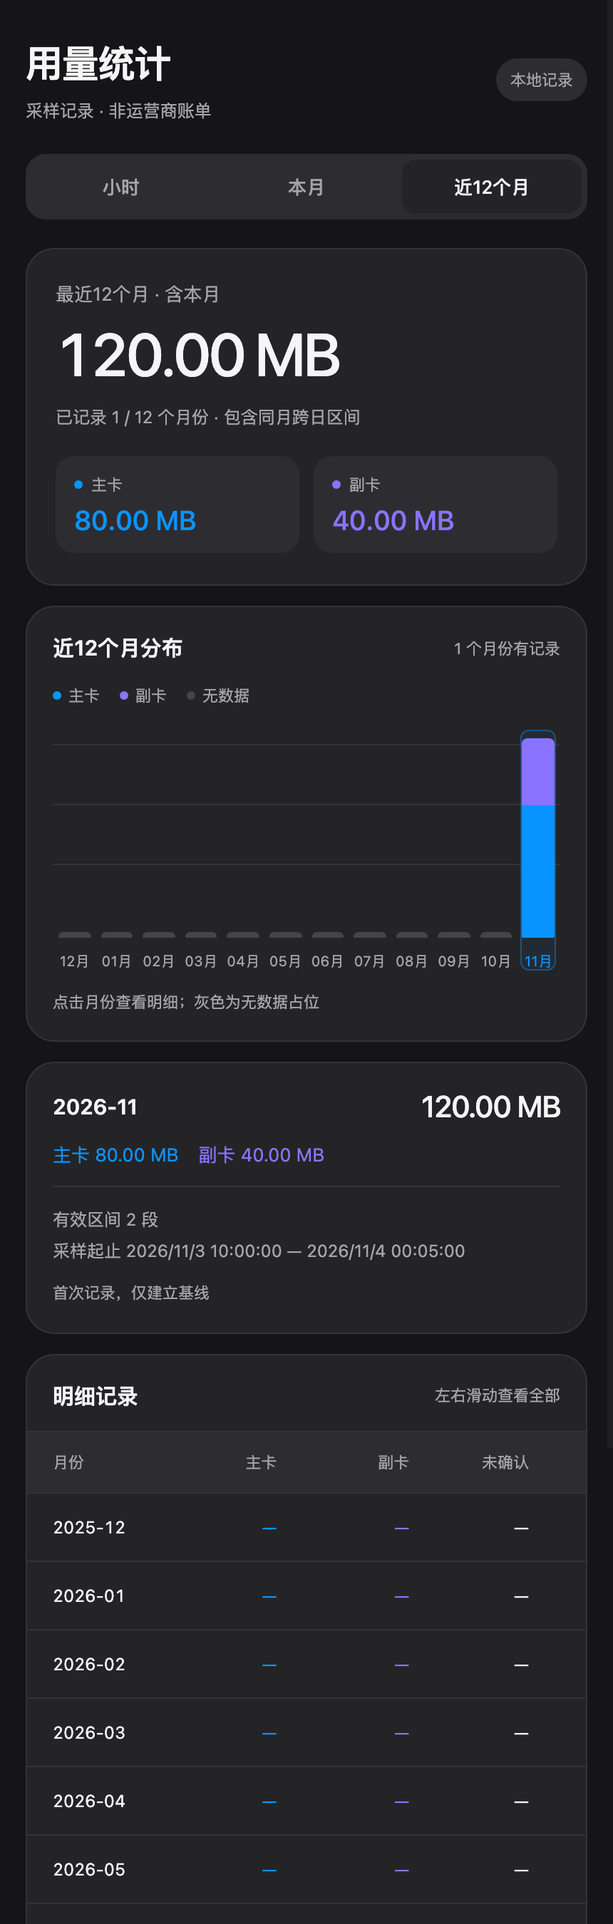
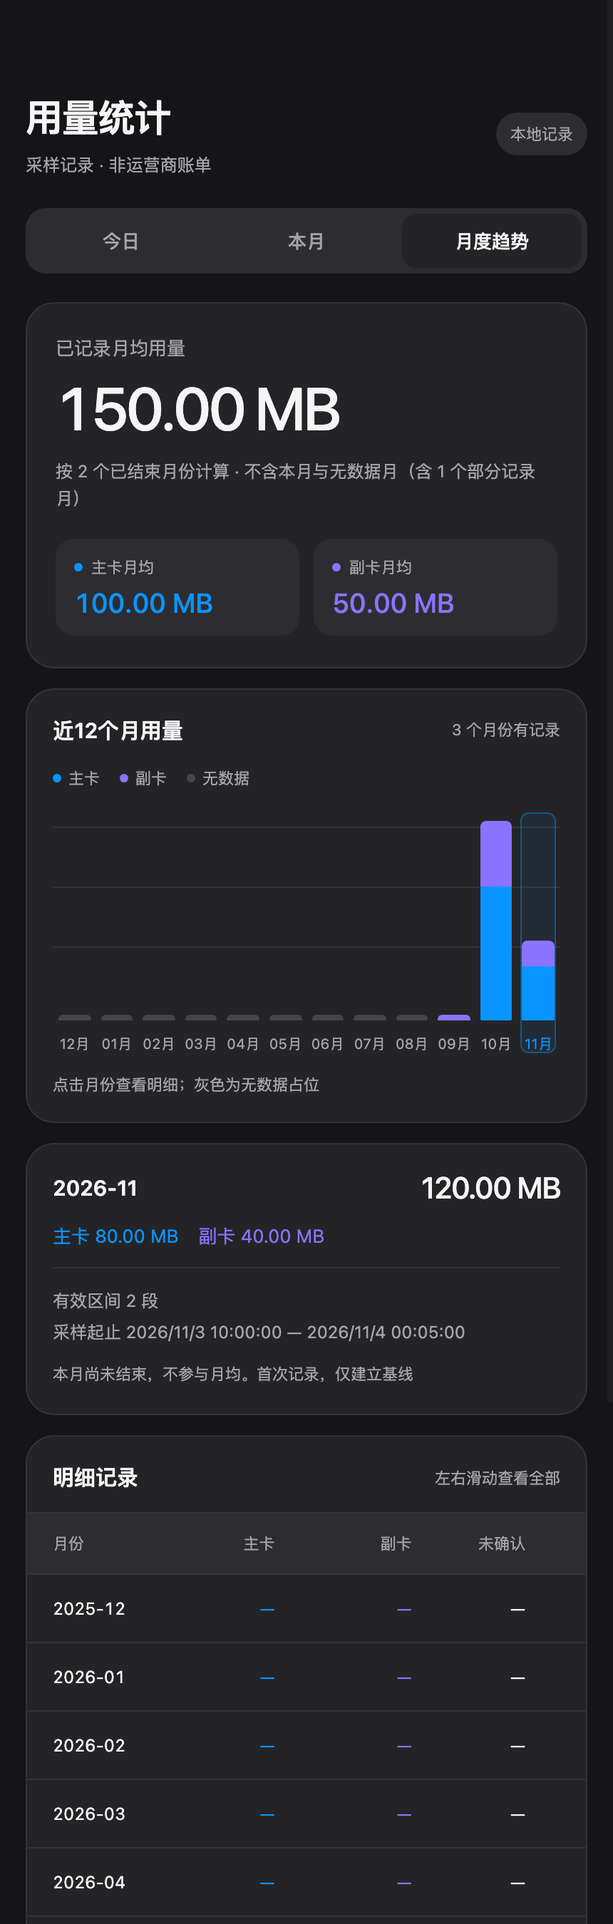
Use recorded monthly averages and fix statistics page zoom and toolbar spacing

diff --git a/scriptable/UnicomFlow.js b/scriptable/UnicomFlow.js
@@ -463,6 +463,15 @@ function updateMonths(previous, sample, prev, interval, note) {
   return months;
 }
 
+function usageSummary(records) {
+  if (!records.length) return { mb: null, mainMB: null, viceMB: null, unknownMB: null };
+  return records.reduce((sum, record) => {
+    sum.mb += record.mb;
+    for (const [key, value] of Object.entries(eventParts(record))) sum[key] += value;
+    return sum;
+  }, { mb: 0, mainMB: 0, viceMB: 0, unknownMB: 0 });
+}
+
 function monthlyReport(history, at = Date.now()) {
   const date = new Date(at), month = dayKey(at).slice(0, 7), today = dayKey(at);
   const savedMonths = history.months || {};
@@ -474,8 +483,11 @@ function monthlyReport(history, at = Date.now()) {
       mainMB: d && d.intervals ? d.mainMB : null, viceMB: d && d.intervals ? d.viceMB : null, unknownMB: d && d.intervals ? d.unknownMB : null,
       intervals: d ? d.intervals : 0, first: d ? d.first : null, last: d ? d.last : null, notes: d ? d.notes : [] };
   });
-  const crossDay = (saved.crossDay || []).filter(e => Number.isFinite(e.mb) && e.mb >= 0);
-  return { month, today, days, totalMB: days.some(d => d.mb != null) ? days.reduce((sum, d) => sum + (d.mb || 0), 0) : null,
+  const crossDay = (saved.crossDay || []).filter(e => Number.isFinite(e.mb) && e.mb >= 0
+    && dayKey(e.from).slice(0, 7) === month && dayKey(e.at).slice(0, 7) === month);
+  const summary = usageSummary([...days.filter(d => d.mb != null), ...crossDay]);
+  return { month, today, days, totalMB: summary.mb, summary,
+    dayTotalMB: days.some(d => d.mb != null) ? days.reduce((sum, d) => sum + (d.mb || 0), 0) : null,
     crossDay, unallocatedMB: crossDay.reduce((sum, e) => sum + e.mb, 0), lastSuccess: history.data.at };
 }
 
@@ -488,21 +500,26 @@ function yearlyReport(history, at = Date.now()) {
     // 同月跨日区间无法拆到某一天，但可以准确归入该月，只计一次。
     const cross = (saved && saved.crossDay || []).filter(e => dayKey(e.from).slice(0, 7) === key && dayKey(e.at).slice(0, 7) === key);
     const records = [...daily.filter(d => d.intervals > 0), ...cross];
-    const parts = records.reduce((total, e) => {
-      total.mb += e.mb;
-      for (const [name, value] of Object.entries(eventParts(e))) total[name] += value;
-      return total;
-    }, { mb: 0, mainMB: 0, viceMB: 0, unknownMB: 0 });
+    const parts = usageSummary(records);
     const first = daily.map(d => d.first).filter(Number.isFinite), last = daily.map(d => d.last).filter(Number.isFinite);
-    return { key, day: key.slice(5) + '月', future: false,
+    const notes = [...new Set(daily.flatMap(d => d.notes).filter(note => note !== '跨日区间未分配'))];
+    const end = dayKey(new Date(now.getFullYear(), now.getMonth() - 10 + index, 0).getTime());
+    const partial = records.length > 0 && (!first.length || !last.length || notes.length > 0
+      || dayKey(Math.min(...first)) !== key + '-01' || dayKey(Math.max(...last)) !== end);
+    return { key, day: key.slice(5) + '月', future: false, partial,
       mb: records.length ? parts.mb : null, mainMB: records.length ? parts.mainMB : null,
       viceMB: records.length ? parts.viceMB : null, unknownMB: records.length ? parts.unknownMB : null,
       intervals: daily.reduce((sum, d) => sum + d.intervals, 0) + cross.length,
       first: first.length ? Math.min(...first) : null, last: last.length ? Math.max(...last) : null,
-      notes: [...new Set(daily.flatMap(d => d.notes).filter(note => note !== '跨日区间未分配'))] };
+      notes };
   });
-  return { period: 'months', month: current, today: current, days,
-    totalMB: days.some(d => d.mb != null) ? days.reduce((sum, d) => sum + (d.mb || 0), 0) : null,
+  // 月均仅对已结束且有记录的月份计算；当前月与无数据月份不补零。
+  const ended = days.filter(d => d.key < current && d.mb != null);
+  const average = usageSummary(ended);
+  if (ended.length) for (const key of ['mb', 'mainMB', 'viceMB', 'unknownMB']) average[key] /= ended.length;
+  average.monthCount = ended.length;
+  average.partialMonthCount = ended.filter(d => d.partial).length;
+  return { period: 'months', month: current, today: current, days, average,
     crossDay: [], unallocatedMB: 0, lastSuccess: history.data.at };
 }
 
@@ -534,10 +551,10 @@ function statisticsHTML(reports, stale = false, initialPeriod = 'month') {
   const light = parseInt(UF.bg.slice(0, 2), 16) * 0.299 + parseInt(UF.bg.slice(2, 4), 16) * 0.587 + parseInt(UF.bg.slice(4, 6), 16) * 0.114 > 150;
   const surface = light ? 'FFFFFF' : '242426', page = light ? 'F3F5F9' : '151517';
   const border = light ? 'E7EAF0' : '343438', soft = light ? 'F6F8FC' : '2D2D31';
-  return `<!doctype html><html lang="zh-CN"><head><meta charset="utf-8"><meta name="viewport" content="width=device-width,initial-scale=1,viewport-fit=cover"><style>
+  return `<!doctype html><html lang="zh-CN"><head><meta charset="utf-8"><meta name="viewport" content="width=device-width,initial-scale=1,minimum-scale=1,maximum-scale=1,user-scalable=no,viewport-fit=cover"><style>
   :root{color-scheme:${light ? 'light' : 'dark'};--text:#${UF.text};--muted:#${UF.muted};--blue:#${UF.blue};--purple:#${UF.purple};--warning:#${UF.warning};--line:#${border};--surface:#${surface};--soft:#${soft}}
-  *{box-sizing:border-box}body{margin:0;background:#${page};color:var(--text);font:14px -apple-system,BlinkMacSystemFont,sans-serif;-webkit-text-size-adjust:100%}button{font:inherit;color:inherit;-webkit-tap-highlight-color:transparent}button:focus-visible{outline:2px solid var(--blue);outline-offset:2px}[hidden]{display:none!important}
-  .shell{max-width:760px;margin:auto;padding:26px 18px 30px}header{display:flex;align-items:center;justify-content:space-between;margin-bottom:22px}h1{font-size:26px;letter-spacing:-.6px;margin:0 0 6px;font-weight:650}.eyebrow{font-size:12px;color:var(--muted)}.badge{font-size:11px;white-space:nowrap;padding:7px 10px;border-radius:20px;background:var(--soft);color:var(--muted)}.cached{color:var(--warning)}
+  *{box-sizing:border-box;touch-action:manipulation}body{margin:0;background:#${page};color:var(--text);font:14px -apple-system,BlinkMacSystemFont,sans-serif;-webkit-text-size-adjust:100%}button{font:inherit;color:inherit;-webkit-tap-highlight-color:transparent}button:focus-visible{outline:2px solid var(--blue);outline-offset:2px}[hidden]{display:none!important}
+  .shell{max-width:760px;margin:auto;padding:calc(64px + env(safe-area-inset-top,0px)) 18px 30px}header{display:flex;align-items:center;justify-content:space-between;margin-bottom:22px}h1{font-size:26px;letter-spacing:-.6px;margin:0 0 6px;font-weight:650}.eyebrow{font-size:12px;color:var(--muted)}.badge{font-size:11px;white-space:nowrap;padding:7px 10px;border-radius:20px;background:var(--soft);color:var(--muted)}.cached{color:var(--warning)}
   .tabs{display:grid;grid-template-columns:repeat(3,1fr);padding:4px;background:var(--soft);border-radius:14px;gap:4px;margin-bottom:20px}.tab{border:0;background:transparent;padding:10px 4px;border-radius:10px;color:var(--muted);font-size:13px;font-weight:500}.tab.active{background:var(--surface);color:var(--text);box-shadow:0 2px 8px #0000000c}
   .card{background:var(--surface);border:1px solid var(--line);border-radius:20px;padding:18px;margin-bottom:14px;min-width:0}.hero{padding:22px 20px}.period-label{font-size:13px;color:var(--muted)}.total{margin:10px 0 12px;font-variant-numeric:tabular-nums;letter-spacing:-1.5px;font-size:42px;font-weight:500;line-height:1.1}.total small{font-size:17px;letter-spacing:0;color:var(--muted);font-weight:400;margin-left:7px}.coverage{font-size:12px;color:var(--muted);line-height:1.6}.totals{display:grid;grid-template-columns:1fr 1fr;gap:10px;margin-top:18px}.mini{padding:12px 13px;border-radius:13px;background:var(--soft)}.mini-label{font-size:11px;color:var(--muted);display:flex;align-items:center;gap:6px}.mini strong{display:block;font-size:19px;font-weight:500;font-variant-numeric:tabular-nums;margin-top:6px}.main{color:var(--blue)}.vice{color:var(--purple)}.unconfirmed{font-size:12px;margin-top:12px;color:var(--warning)}
   h2{font-size:15px;font-weight:600;margin:0}.card-head{display:flex;justify-content:space-between;align-items:center;gap:8px}.hint{font-size:11px;color:var(--muted)}.legend{display:flex;flex-wrap:wrap;gap:14px;font-size:11px;color:var(--muted);margin:15px 0 8px}.legend span{display:inline-flex;align-items:center;gap:5px}.dot{display:inline-block;width:6px;height:6px;border-radius:50%;flex-shrink:0}.blue{background:var(--blue)}.purple{background:var(--purple)}.amber{background:var(--warning)}.gray{background:#${UF.track}}
@@ -547,39 +564,40 @@ function statisticsHTML(reports, stale = false, initialPeriod = 'month') {
   details{color:var(--muted);font-size:12px;line-height:1.8}summary{cursor:pointer;color:var(--text);font-size:13px;font-weight:500}details p{margin:10px 0 0}.cross-event{padding:10px 0;border-top:1px solid var(--line);font-size:12px;line-height:1.7;white-space:pre-line}footer{white-space:pre-line;color:var(--muted);font-size:11px;line-height:1.8;text-align:center;margin-top:20px}.range-note{margin:12px 0 0;color:var(--muted);font-size:11px;line-height:1.7}
   </style></head><body><main class="shell">
   <header><div><h1>用量统计</h1><div class="eyebrow">采样记录 · 非运营商账单</div></div><span class="badge${stale ? ' cached' : ''}">${stale ? '缓存数据' : '本地记录'}</span></header>
-  <nav class="tabs" aria-label="统计周期"><button class="tab" id="tab-hours" type="button">小时</button><button class="tab" id="tab-month" type="button">本月</button><button class="tab" id="tab-year" type="button">近12个月</button></nav>
-  <section class="card hero"><div class="period-label" id="period-label"></div><div class="total" id="total"></div><div class="coverage" id="coverage"></div><div id="cross-hint" class="range-note" hidden></div><div class="totals"><div class="mini"><div class="mini-label"><i class="dot blue"></i>主卡</div><strong id="main-total" class="main"></strong></div><div class="mini"><div class="mini-label"><i class="dot purple"></i>副卡</div><strong id="vice-total" class="vice"></strong></div></div><div id="unknown-total" class="unconfirmed" hidden></div></section>
+  <nav class="tabs" aria-label="统计周期"><button class="tab" id="tab-hours" type="button">今日</button><button class="tab" id="tab-month" type="button">本月</button><button class="tab" id="tab-year" type="button">月度趋势</button></nav>
+  <section class="card hero"><div class="period-label" id="period-label"></div><div class="total" id="total"></div><div class="coverage" id="coverage"></div><div id="cross-hint" class="range-note" hidden></div><div class="totals"><div class="mini"><div class="mini-label"><i class="dot blue"></i><span id="main-label">主卡</span></div><strong id="main-total" class="main"></strong></div><div class="mini"><div class="mini-label"><i class="dot purple"></i><span id="vice-label">副卡</span></div><strong id="vice-total" class="vice"></strong></div></div><div id="unknown-total" class="unconfirmed" hidden></div></section>
   <section class="card"><div class="card-head"><h2 id="chart-title"></h2><span id="chart-count" class="hint"></span></div><div class="legend"><span><i class="dot blue"></i>主卡</span><span><i class="dot purple"></i>副卡</span><span id="unknown-legend"><i class="dot amber"></i>未确认</span><span><i class="dot gray"></i>无数据</span></div><div class="scroll"><div id="chart" class="chart"></div></div><div id="chart-foot" class="chart-foot"></div></section>
   <section class="card"><div class="selected-heading"><h2 id="selected"></h2><span id="selected-total" class="selected-value"></span></div><div class="selected-cards"><span id="selected-main" class="main"></span><span id="selected-vice" class="vice"></span><span id="selected-unknown" class="unconfirmed"></span></div><div id="detail" class="detail"></div><p id="selected-note" class="status-note"></p></section>
   <section class="card table-card"><div class="card-head"><h2>明细记录</h2><span class="hint">左右滑动查看全部</span></div><div class="scroll"><table><thead><tr><th id="date-heading"></th><th>主卡</th><th>副卡</th><th>未确认</th><th>合计</th><th>记录情况</th></tr></thead><tbody id="rows"></tbody></table></div></section>
-  <section class="card" id="cross-card"><details><summary id="cross-summary"></summary><p>这部分用量无法准确拆到某天或小时，未计入上方合计。</p><div id="cross-events"></div></details></section>
+  <section class="card" id="cross-card"><details><summary id="cross-summary"></summary><p id="cross-description"></p><div id="cross-events"></div></details></section>
   <section class="card"><details><summary>统计口径与数据缺口</summary><p id="scope"></p><p>只统计成功查询间可确认的增量。无数据不等于零；短柱只是占位，用量以数值为准。套餐变更、累计计数回退或跨月时重新建立基线，不推算缺失用量。主卡包括共享部分与独享包；归属无法确认的部分单独列出。</p></details></section>
   <footer id="updated"></footer></main><script>
   (()=>{
     const reports=${payload}, initial=${JSON.stringify(initialPeriod)};
-    const el=id=>document.getElementById(id), modes={hours:{label:'时段',title:'今日小时分布',width:500},month:{label:'日期',title:'本月每日分布',width:600},year:{label:'月份',title:'近12个月分布',width:0}};
+    const el=id=>document.getElementById(id), modes={hours:{label:'时段',title:'今日小时分布',width:500},month:{label:'日期',title:'本月每日分布',width:600},year:{label:'月份',title:'近12个月用量',width:0}};
     const amount=value=>value==null?'—':value>=1024?(value/1024).toFixed(2)+' GB':value.toFixed(2)+' MB';
-    const totalFor=(report,key)=>report.days.some(d=>d.mb!=null)?report.days.reduce((sum,d)=>sum+(d[key]||0),0):null;
+    const totalFor=(report,key)=>report.period==='months'?report.average[key]:report.summary?report.summary[key]:report.days.some(d=>d.mb!=null)?report.days.reduce((sum,d)=>sum+(d[key]||0),0):null;
     const clock=(time,full)=>time==null?'无':full?new Date(time).toLocaleString('zh-CN',{hour12:false}):new Date(time).toLocaleTimeString('zh-CN',{hour12:false});
-    const status=d=>d.future?'未到时间':d.mb==null?(d.first!=null?'仅基线':d.notes.length?'有缺口':'无采样'):d.notes.length?'有缺口':'采样区间';
+    const status=d=>current==='year'&&d.mb!=null?(d.key===report.month?'本月进行中':d.partial?'部分记录':'已结束'):d.future?'未到时间':d.mb==null?(d.first!=null?'仅基线':d.notes.length?'有缺口':'无采样'):d.notes.length?'有缺口':'采样区间';
     let current='month', report=reports.month;
     function select(d){
       el('selected').textContent=d.key;el('selected-total').textContent=amount(d.mb);
       el('selected-main').textContent='主卡 '+amount(d.mainMB);el('selected-vice').textContent='副卡 '+amount(d.viceMB);
       el('selected-unknown').hidden=!(d.unknownMB>0);el('selected-unknown').textContent='未确认 '+amount(d.unknownMB);
       el('detail').textContent=d.first==null?'暂无成功采样记录':'有效区间 '+d.intervals+' 段\\n采样起止 '+clock(d.first,current==='year')+' — '+clock(d.last,current==='year');
-      el('selected-note').textContent=d.future?'该时段尚未到达':d.notes.join('；')||(d.mb==null?'没有记录，未补零':'仅代表已记录区间，不保证覆盖完整时段');
+      el('selected-note').textContent=(current==='year'&&d.key===report.month?'本月尚未结束，不参与月均。':current==='year'&&d.partial?'部分记录，不代表完整月用量。':'')+(d.future?'该时段尚未到达':d.notes.join('；')||(d.mb==null?'没有记录，未补零':'仅代表已记录区间，不保证覆盖完整时段'));
       Array.from(el('chart').children).forEach(item=>item.classList.toggle('selected',item.dataset.key===d.key));
       Array.from(el('rows').children).forEach(item=>item.classList.toggle('selected',item.dataset.key===d.key));
     }
     function render(key){
       current=key;report=reports[key];const mode=modes[key];
       Object.keys(modes).forEach(name=>{el('tab-'+name).classList.toggle('active',name===key);el('tab-'+name).setAttribute('aria-pressed',String(name===key));});
-      el('period-label').textContent=key==='year'?'最近12个月 · 含本月':report.month+(key==='hours'?' · 同日采样区间':' · 同日区间合计');
-      el('total').textContent=amount(report.totalMB);el('main-total').textContent=amount(totalFor(report,'mainMB'));el('vice-total').textContent=amount(totalFor(report,'viceMB'));
-      const unknown=totalFor(report,'unknownMB');el('unknown-total').hidden=!(unknown>0);el('unknown-total').textContent='归属未确认 '+amount(unknown);el('unknown-legend').hidden=!(unknown>0);
+      el('period-label').textContent=key==='year'?'已记录月均用量':report.month+(key==='hours'?' · 今日已记录用量':' · 本月已记录用量（含同月跨日）');
+      el('total').textContent=key==='year'?(report.average.monthCount?amount(report.average.mb):'积累中'):amount(report.totalMB);
+      el('main-label').textContent=key==='year'?'主卡月均':'主卡';el('vice-label').textContent=key==='year'?'副卡月均':'副卡';el('main-total').textContent=amount(totalFor(report,'mainMB'));el('vice-total').textContent=amount(totalFor(report,'viceMB'));
+      const unknown=totalFor(report,'unknownMB');el('unknown-total').hidden=!(unknown>0);el('unknown-total').textContent=(key==='year'?'未确认月均 ':'归属未确认 ')+amount(unknown);el('unknown-legend').hidden=!report.days.some(d=>d.unknownMB>0);
       const recorded=report.days.filter(d=>d.mb!=null).length;
-      el('coverage').textContent='已记录 '+recorded+' / '+report.days.length+' 个'+mode.label+' · '+(key==='year'?'包含同月跨日区间':'跨日区间单独列出');
+      el('coverage').textContent=key==='year'?(report.average.monthCount?'按 '+report.average.monthCount+' 个已结束月份计算 · 不含本月与无数据月'+(report.average.partialMonthCount?'（含 '+report.average.partialMonthCount+' 个部分记录月）':''):'暂无已结束且有记录的月份；本月尚在积累'):'已记录 '+recorded+' / '+report.days.length+' 个'+mode.label+' · '+(key==='month'?'包含同月跨日区间':'跨日区间单独列出');
       el('chart-title').textContent=mode.title;el('chart-count').textContent=recorded+' 个'+mode.label+'有记录';el('date-heading').textContent=mode.label;
       el('chart').style.minWidth=mode.width+'px';el('chart').replaceChildren();el('rows').replaceChildren();
       const max=Math.max(1,...report.days.map(d=>d.mb||0));
@@ -591,14 +609,17 @@ function statisticsHTML(reports, stale = false, initialPeriod = 'month') {
         const row=document.createElement('tr');row.dataset.key=d.key;const date=document.createElement('td');const dateButton=document.createElement('button');dateButton.className='date';dateButton.textContent=key==='year'?d.key:key==='hours'?d.day+':00':d.key.slice(5);dateButton.onclick=()=>select(d);date.append(dateButton);row.append(date);
         for(const [value,className] of [[d.mainMB,'main'],[d.viceMB,'vice'],[d.unknownMB,''],[d.mb,'']]){const cell=document.createElement('td');cell.textContent=amount(value);cell.className=className;row.append(cell);}const state=document.createElement('td');state.textContent=status(d);row.append(state);el('rows').append(row);
       }
-      el('cross-hint').hidden=key==='year'||!report.crossDay.length;el('cross-hint').textContent='另有跨日待分配 '+amount(report.unallocatedMB)+' · '+report.crossDay.length+' 段，未计入上方合计';
+      el('cross-hint').hidden=key==='year'||!report.crossDay.length;el('cross-hint').textContent=(key==='month'?'其中跨日未分配 ':'另有跨日待分配 ')+amount(report.unallocatedMB)+' · '+report.crossDay.length+' 段，'+(key==='month'?'已计入本月合计':'未计入上方合计');
       el('chart-foot').textContent=key==='year'?'点击月份查看明细；灰色为无数据占位':key==='hours'?'点击时段查看明细；跨小时增量计入结束小时，不平均摊分':'左右滑动查看整月，点击日期查看明细；短柱不代表固定用量';
+      el('cross-description').textContent=key==='month'?'这部分已计入本月合计，无法准确拆到每天，因此未计入每日柱状图。':'这部分无法准确拆到小时，未计入今日小时合计。';
       el('cross-card').hidden=key==='year'||!report.crossDay.length;el('cross-summary').textContent='跨日未分配 '+amount(report.unallocatedMB)+' · '+report.crossDay.length+' 段';el('cross-events').replaceChildren();
       for(const interval of report.crossDay){const item=document.createElement('div');item.className='cross-event';item.textContent=clock(interval.from,true)+' → '+clock(interval.at,true)+'\\n合计 '+amount(interval.mb)+' · 主 '+amount(interval.mainMB)+' / 副 '+amount(interval.viceMB)+' / 未确认 '+amount(interval.unknownMB);el('cross-events').append(item);}
-      el('scope').textContent=key==='year'?'月汇总包含同月跨日区间，但不补算跨月缺口。只保存已有采样记录，无法自动补齐过去12个月账单。':key==='hours'?'小时图来自同日的有效区间，按查询结束小时归集。长时间没有采样时，一根柱可能包含多个小时的用量。':'每日用量仅汇总同日有效区间，无法拆分的跨日区间单列；所以每日合计可能低于月度汇总。';
+      el('scope').textContent=key==='year'?'每根柱子表示一个月已记录的用量，不累计跨月总量。月均只对已结束且有记录的月份计算，不含本月与空白月份；部分记录月份会标注并计入已记录月均，不能当作完整账单月均。':key==='hours'?'小时图来自同日的有效区间，按查询结束小时归集。长时间没有采样时，一根柱可能包含多个小时的用量。':'顶部为本月已记录用量，包含同日和可确认的同月跨日区间，与趋势图的本月柱一致。每日图不拆分跨日区间，因此每日柱子的合计可能低于本月顶部合计。';
       el('updated').textContent='最后成功查询 '+clock(report.lastSuccess,true)+'\\n切换视图使用同一份记录，不额外查询';
       select(report.days.find(d=>d.key===report.today)||report.days[report.days.length-1]);
     }
+    // 禁止双击缩放，但不拦截 touchmove，保留图表和表格的正常滚动。
+    document.addEventListener('dblclick',event=>event.preventDefault(),{passive:false});
     Object.keys(modes).forEach(key=>el('tab-'+key).onclick=()=>render(key));render(Object.hasOwn(modes,initial)?initial:'month');
   })();</script></body></html>`;
 }

diff --git a/docs/unicom-flow/README.md b/docs/unicom-flow/README.md
@@ -19,7 +19,7 @@
 
 - 预览组件：小尺寸、中尺寸。
 - 组件配置：脚本更新、显示方式（统一显示／主副卡分开显示）、组件主题（黑色／白色）、数字字体、套餐分类、颜色配置（底色、数字与标题、进度条、历史图）。
-- 账户与数据：用量统计（小时／本月／近12个月）、账户设置（说明现有 QX Cookie 来源，无需输入）、主副卡用量、成员字段检查、代理缓存、连接检查。
+- 账户与数据：用量统计（今日／本月／月度趋势）、账户设置（说明现有 QX Cookie 来源，无需输入）、主副卡用量、成员字段检查、代理缓存、连接检查。
 - 基础设置：BoxJS 域名、刷新间隔、清除历史、重载组件。
 
 “代理缓存”是直接读取 `@YaYa_10010.cookie` 后刷新套餐，不调用 DmYY 的批量导入方法；不把 Cookie 保存进 DmYY 设置。DmYY 只保存颜色、刷新间隔等界面配置。
@@ -109,20 +109,20 @@
 
 ## 用量统计
 
-从 Scriptable 运行脚本，在“账户与数据 → 用量统计”进入统一页面，通过顶部“小时／本月／近12个月”切换。打开页面只查询一次，之后切换周期、点击柱子和表格都使用同一份记录，不额外请求联通。原有历史文件与统计口径不变，不会因界面更新清空记录。
+从 Scriptable 运行脚本，在“账户与数据 → 用量统计”进入统一页面，通过顶部“今日／本月／月度趋势”切换。打开页面只查询一次，之后切换周期、点击柱子和表格都使用同一份记录，不额外请求联通。原有历史文件与统计口径不变，不会因界面更新清空记录。
 
-页面使用当前黑白主题的卡片布局，分别展示总览、主副卡汇总、堆叠图、选中记录与明细表。无数据、归属未确认、跨日待分配、缓存状态都有独立提示。明细表首列固定，宽表可横向滑动。桌面图表仍保持今日小时视图，不增加小号内容。
+页面禁止双击缩放，并为 Scriptable 的 Close／分享工具栏预留顶部安全距离；保留页面、图表和表格的正常滑动。页面使用当前黑白主题的卡片布局，分别展示总览、主副卡汇总、堆叠图、选中记录与明细表。无数据、归属未确认、跨日待分配、缓存状态都有独立提示。明细表首列固定，宽表可横向滑动。桌面图表仍保持今日小时视图，不增加小号内容。
 
-### 小时视图
+### 今日视图（按小时）
 
 展示今日 00—23 时的有效采样区间，支持点击小时查看主副卡用量、区间数及采样起止时间；跨小时的区间仍计入结束小时，不平均摊分。过去无数据的小时显示灰色占位，真实零增量显示紫色短柱；未来小时留空。跨日区间单列，不进入小时合计。
 
 ### 本月视图
 
-页面提供整月每日堆叠柱状图和日期列表；明细表直接列出主卡、副卡、未确认、合计及记录情况，可横向滑动查看全部列。可点击日期或柱子查看有效区间数、当天最早／最晚成功采样时间和缺口说明；窄屏可左右滑动柱状图。合计统计所有未排除套餐的同日区间增量，主卡蓝色、副卡紫色堆叠显示；主卡包含共享部分和用户确认的独享包，未知归属为黄色，也不是账单中的月累计值。当天采样范围不代表中间所有时刻都有采样。逐卡数据要求区间两端的套餐成员归属明确、合计与套餐池一致，且各卡计数未回退；缺失或冲突只保留为黄色未确认用量，不用共享池减出缺失卡片。
+页面提供整月每日堆叠柱状图和日期列表；明细表直接列出主卡、副卡、未确认、合计及记录情况，可横向滑动查看全部列。可点击日期或柱子查看有效区间数、当天最早／最晚成功采样时间和缺口说明；窄屏可左右滑动柱状图。顶部合计统计本月所有未排除套餐的有效区间增量，包含同月跨日部分；每日图和日表仍只统计同日区间，主卡蓝色、副卡紫色堆叠显示；主卡包含共享部分和用户确认的独享包，未知归属为黄色，也不是账单中的月累计值。当天采样范围不代表中间所有时刻都有采样。逐卡数据要求区间两端的套餐成员归属明确、合计与套餐池一致，且各卡计数未回退；缺失或冲突只保留为黄色未确认用量，不用共享池减出缺失卡片。
 
 - **采样估算**：仅将同一天内、套餐口径一致且计数未回退的两次查询差值归入当天；没有记录的日期数值显示“—”，不会填零；过去日期显示灰色短柱占位，已采样的零值显示紫色短柱，未来日期不画柱。采样范围内增量为零的有效区间才显示零。
-- **跨日区间**：能确认增量但不能拆分到各天时，单列“跨日未分配”，不纳入每日柱或同日合计，也不平均摊分。详情中可查看起止时间及主副卡、未确认部分。
+- **跨日区间**：能确认增量但不能拆分到各天时，单列“跨日未分配”，不纳入每日柱或日表，也不平均摊分，但已纳入本月顶部合计。详情中可查看起止时间及主副卡、未确认部分。
 - **首次与缺口**：首次查询只建立基线，之前的用量不能恢复；跨月、套餐变化或计数回退会标记缺口，之后继续累加可确认的新区间，不抹掉本月已有日记录。
 - **旧历史清空**：按用户要求，切换逐卡统计格式时不导入旧总量历史；仅针对尚未切换的旧格式，当前界面更新不会清空已有逐卡记录。首次成功查询覆盖旧历史文件并建立新基线，不保留备份；下一次有效查询才开始累积。旧版缓存也不再用于显示旧统计。后续运行保留新历史，不会每次清空。主题、字体和 QX Cookie 不受影响。
 - **保存方式**：同一份本地 `Documents/UnicomFlow/history.json` 增加 `months` 日聚合（最近12个月，含本月），小时 `events` 仍只保留七天。月度不逐条保存日内请求，避免数据随刷新次数持续膨胀。换账号／Cookie 会隔离历史；分类变更或“清除历史”会清空月度记录。
@@ -132,17 +132,19 @@
 
 本地验证覆盖日聚合、真实零值／缺失值、跨日未分配、跨月保留与裁剪、闰年、乱序／重复采样、套餐变化、计数回退、账号隔离、旧历史清空、离线缓存与日期交互。统一页用模拟数据做手机宽度排版及同页切换检查；实际接口与 iOS WebView 仍需手机验证。
 
-### 近12个月视图
+### 月度趋势（按月）
 
-统一页面顶部的“近12个月”按自然月展示最近12个月，**包含本月**。采用主卡蓝色、副卡紫色的堆叠柱状图，归属不明的部分为黄色；同一张图可比较每月总量和主副卡构成。点击月份查看区间数与采样范围，表格同时列出主卡、副卡、未确认和合计。
+统一页面顶部的“月度趋势”按自然月展示最近12个月，**包含本月**。采用主卡蓝色、副卡紫色的堆叠柱状图，归属不明的部分为黄色；同一张图可比较每月总量和主副卡构成。点击月份查看区间数与采样范围，表格同时列出主卡、副卡、未确认和合计。
 
-月用量来自本地有效区间累计，不会调用详单接口补取过去的账单。未积累的月份显示“—”及灰色占位短柱；真实零值才显示零。本月仍在积累，历史月份也不保证采样完整。
+顶部不再显示跨月累计总量，而是“已记录月均用量”及主卡／副卡月均。分母仅包括最近12个月中**已结束且有记录**的月份，本月及无数据月份排除；有真实零记录的已结束月份参与计算。显示所用月份数和其中部分记录月份数；部分记录只代表已采样用量，不能当作完整账单月均。尚无已结束记录时显示“积累中”。开始记录、清空历史、采样起止未覆盖整月或存在缺口的月份会标为“部分记录”；本月标为“本月进行中”。
 
-同月跨日区间虽然无法分到某一天，但可以确定属于该月，因此纳入月汇总，且只计一次。这使月汇总可能大于“本月”视图上方的同日区间合计；后者把跨日区间单列。跨月、计数回退及套餐变化导致的缺口不会插值补全。
+每根柱仍表示对应月份的已记录用量，点击查看当月详情，不是跨月累计。月用量来自本地有效区间累计，不会调用详单接口补取过去的账单。未积累的月份显示“—”及灰色占位短柱；真实零值才显示零。本月仍在积累，历史月份也不保证采样完整。
+
+同月跨日区间虽然无法分到某一天，但可以确定属于该月，因此纳入月汇总，且只计一次。“本月”视图顶部已采用相同口径，因此与趋势图本月柱一致；本月每日图仍不拆分跨日部分。跨月、计数回退及套餐变化导致的缺口不会插值补全。
 
 逐卡记录按最近12个月保存；界面更新保留现有逐卡记录，不会重复清空历史。换账号、手动修改分类或清除历史仍会按原规则清空相应统计。
 
-[近12个月视图预览](preview-yearly.png)使用模拟数据，仅一个月份有采样记录。
+[月度趋势预览](preview-yearly.png)使用模拟数据，展示已结束月份的月均及进行中的本月。
 
 ## 查询失败
 
